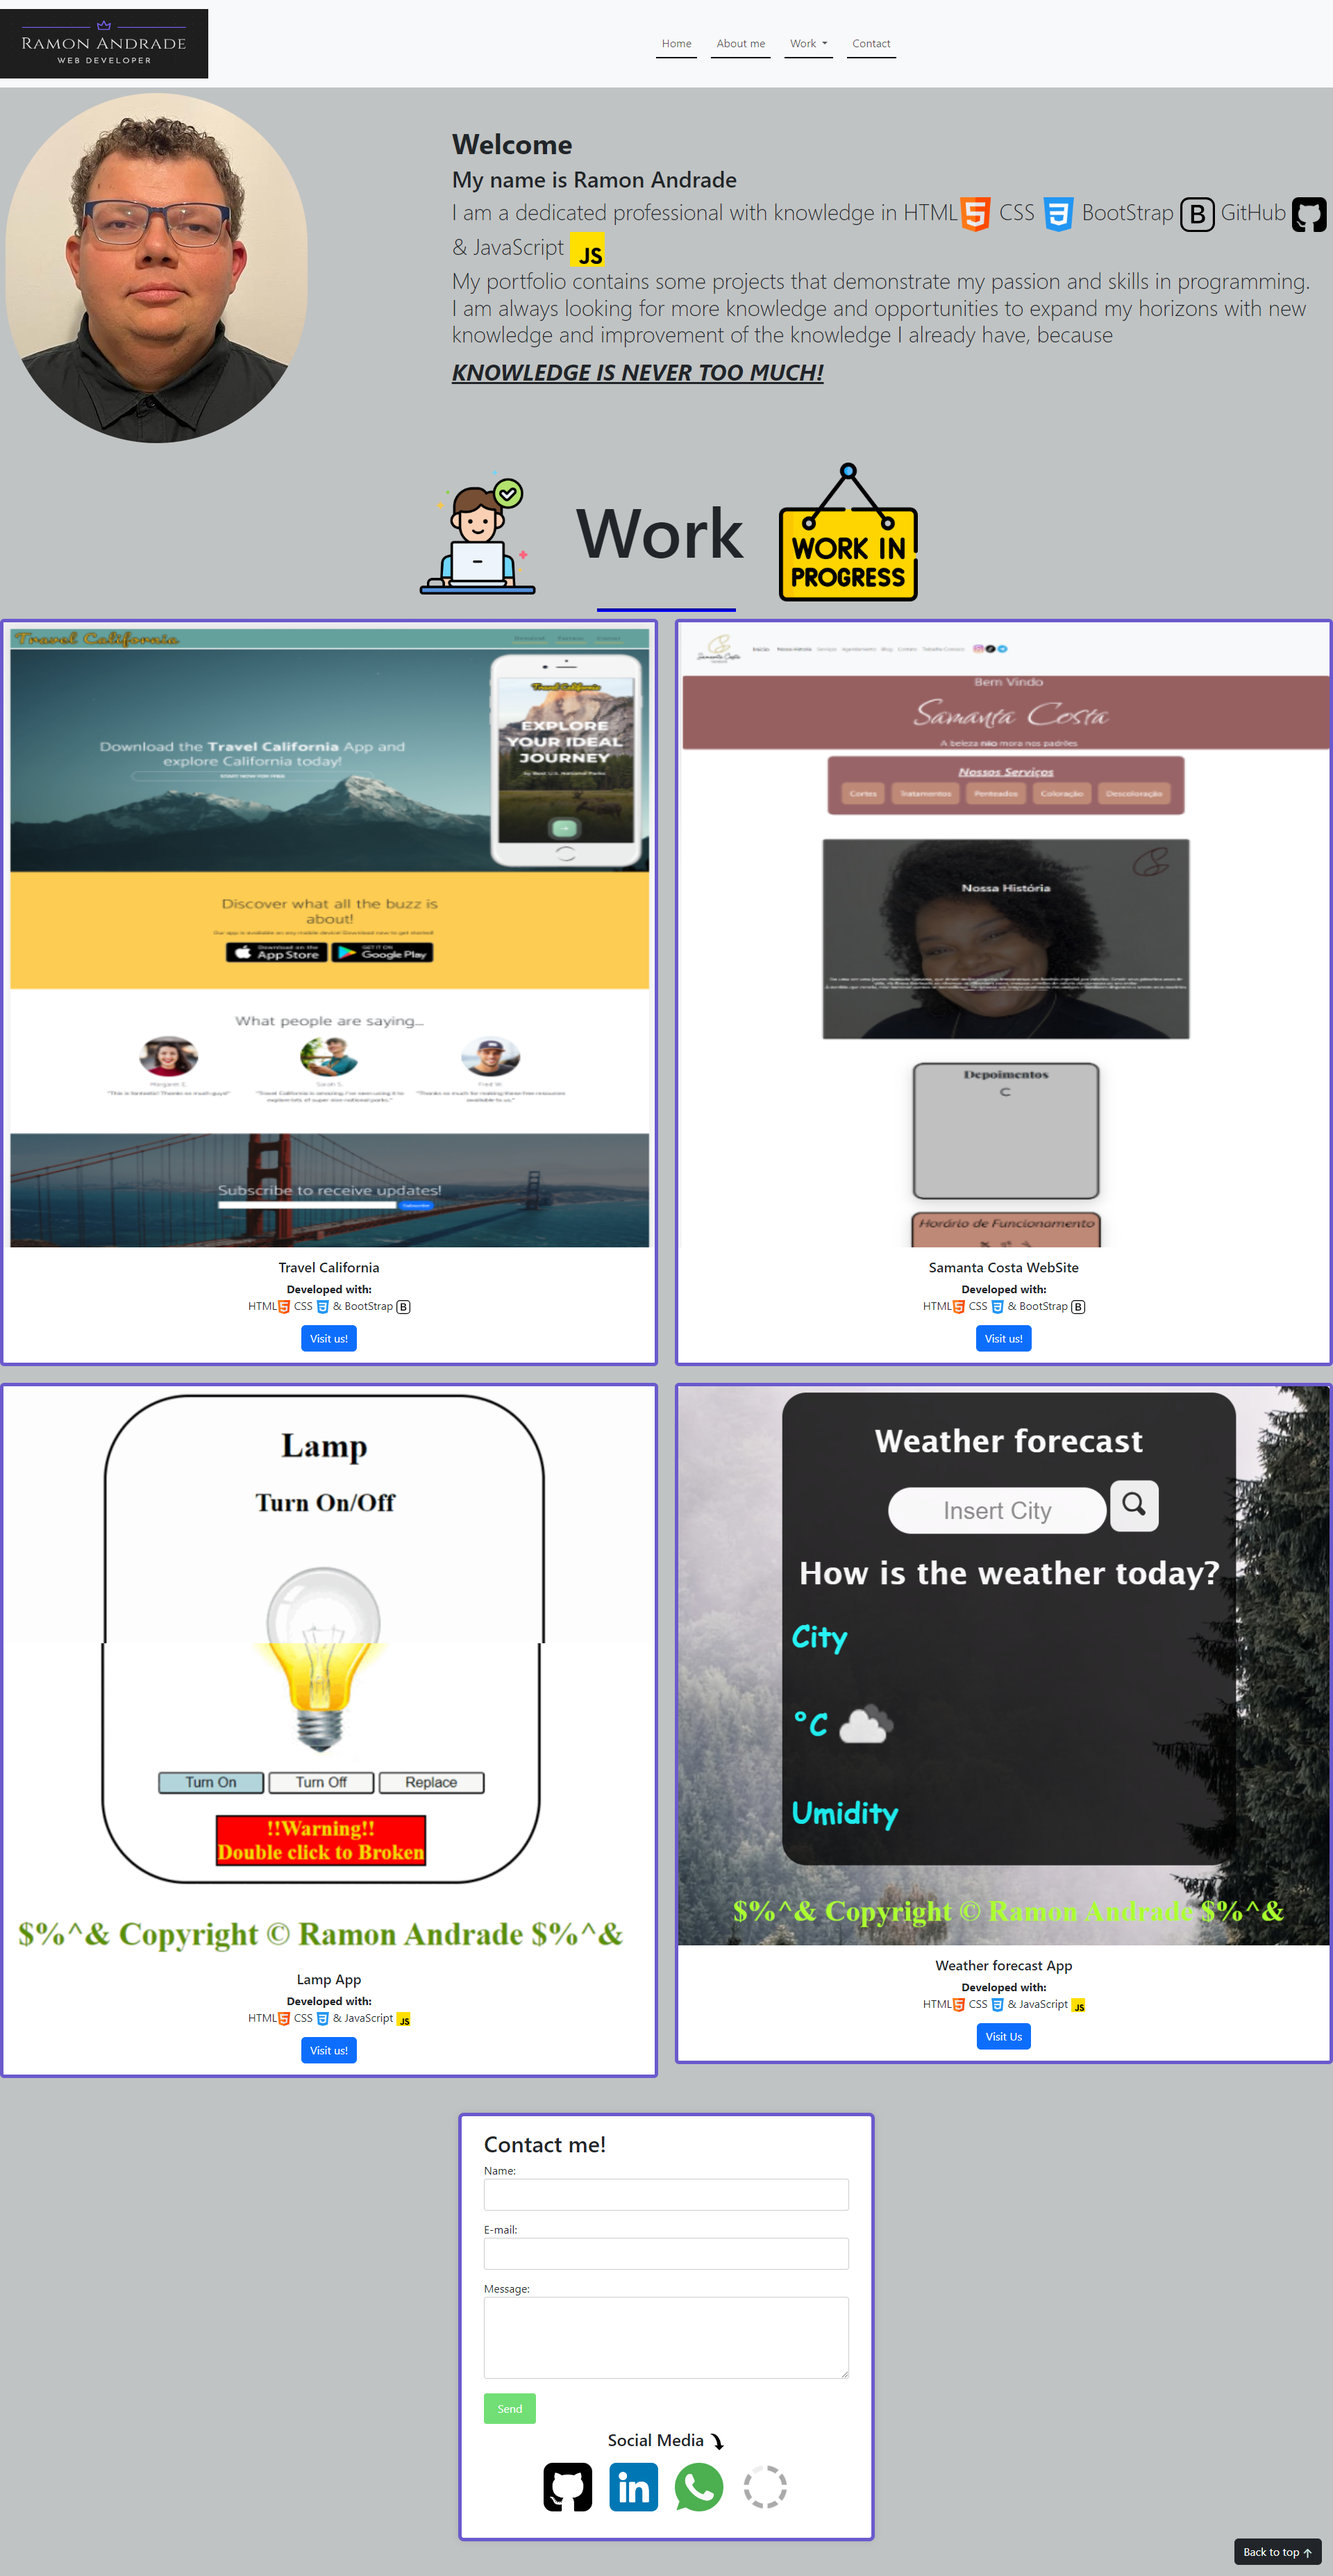
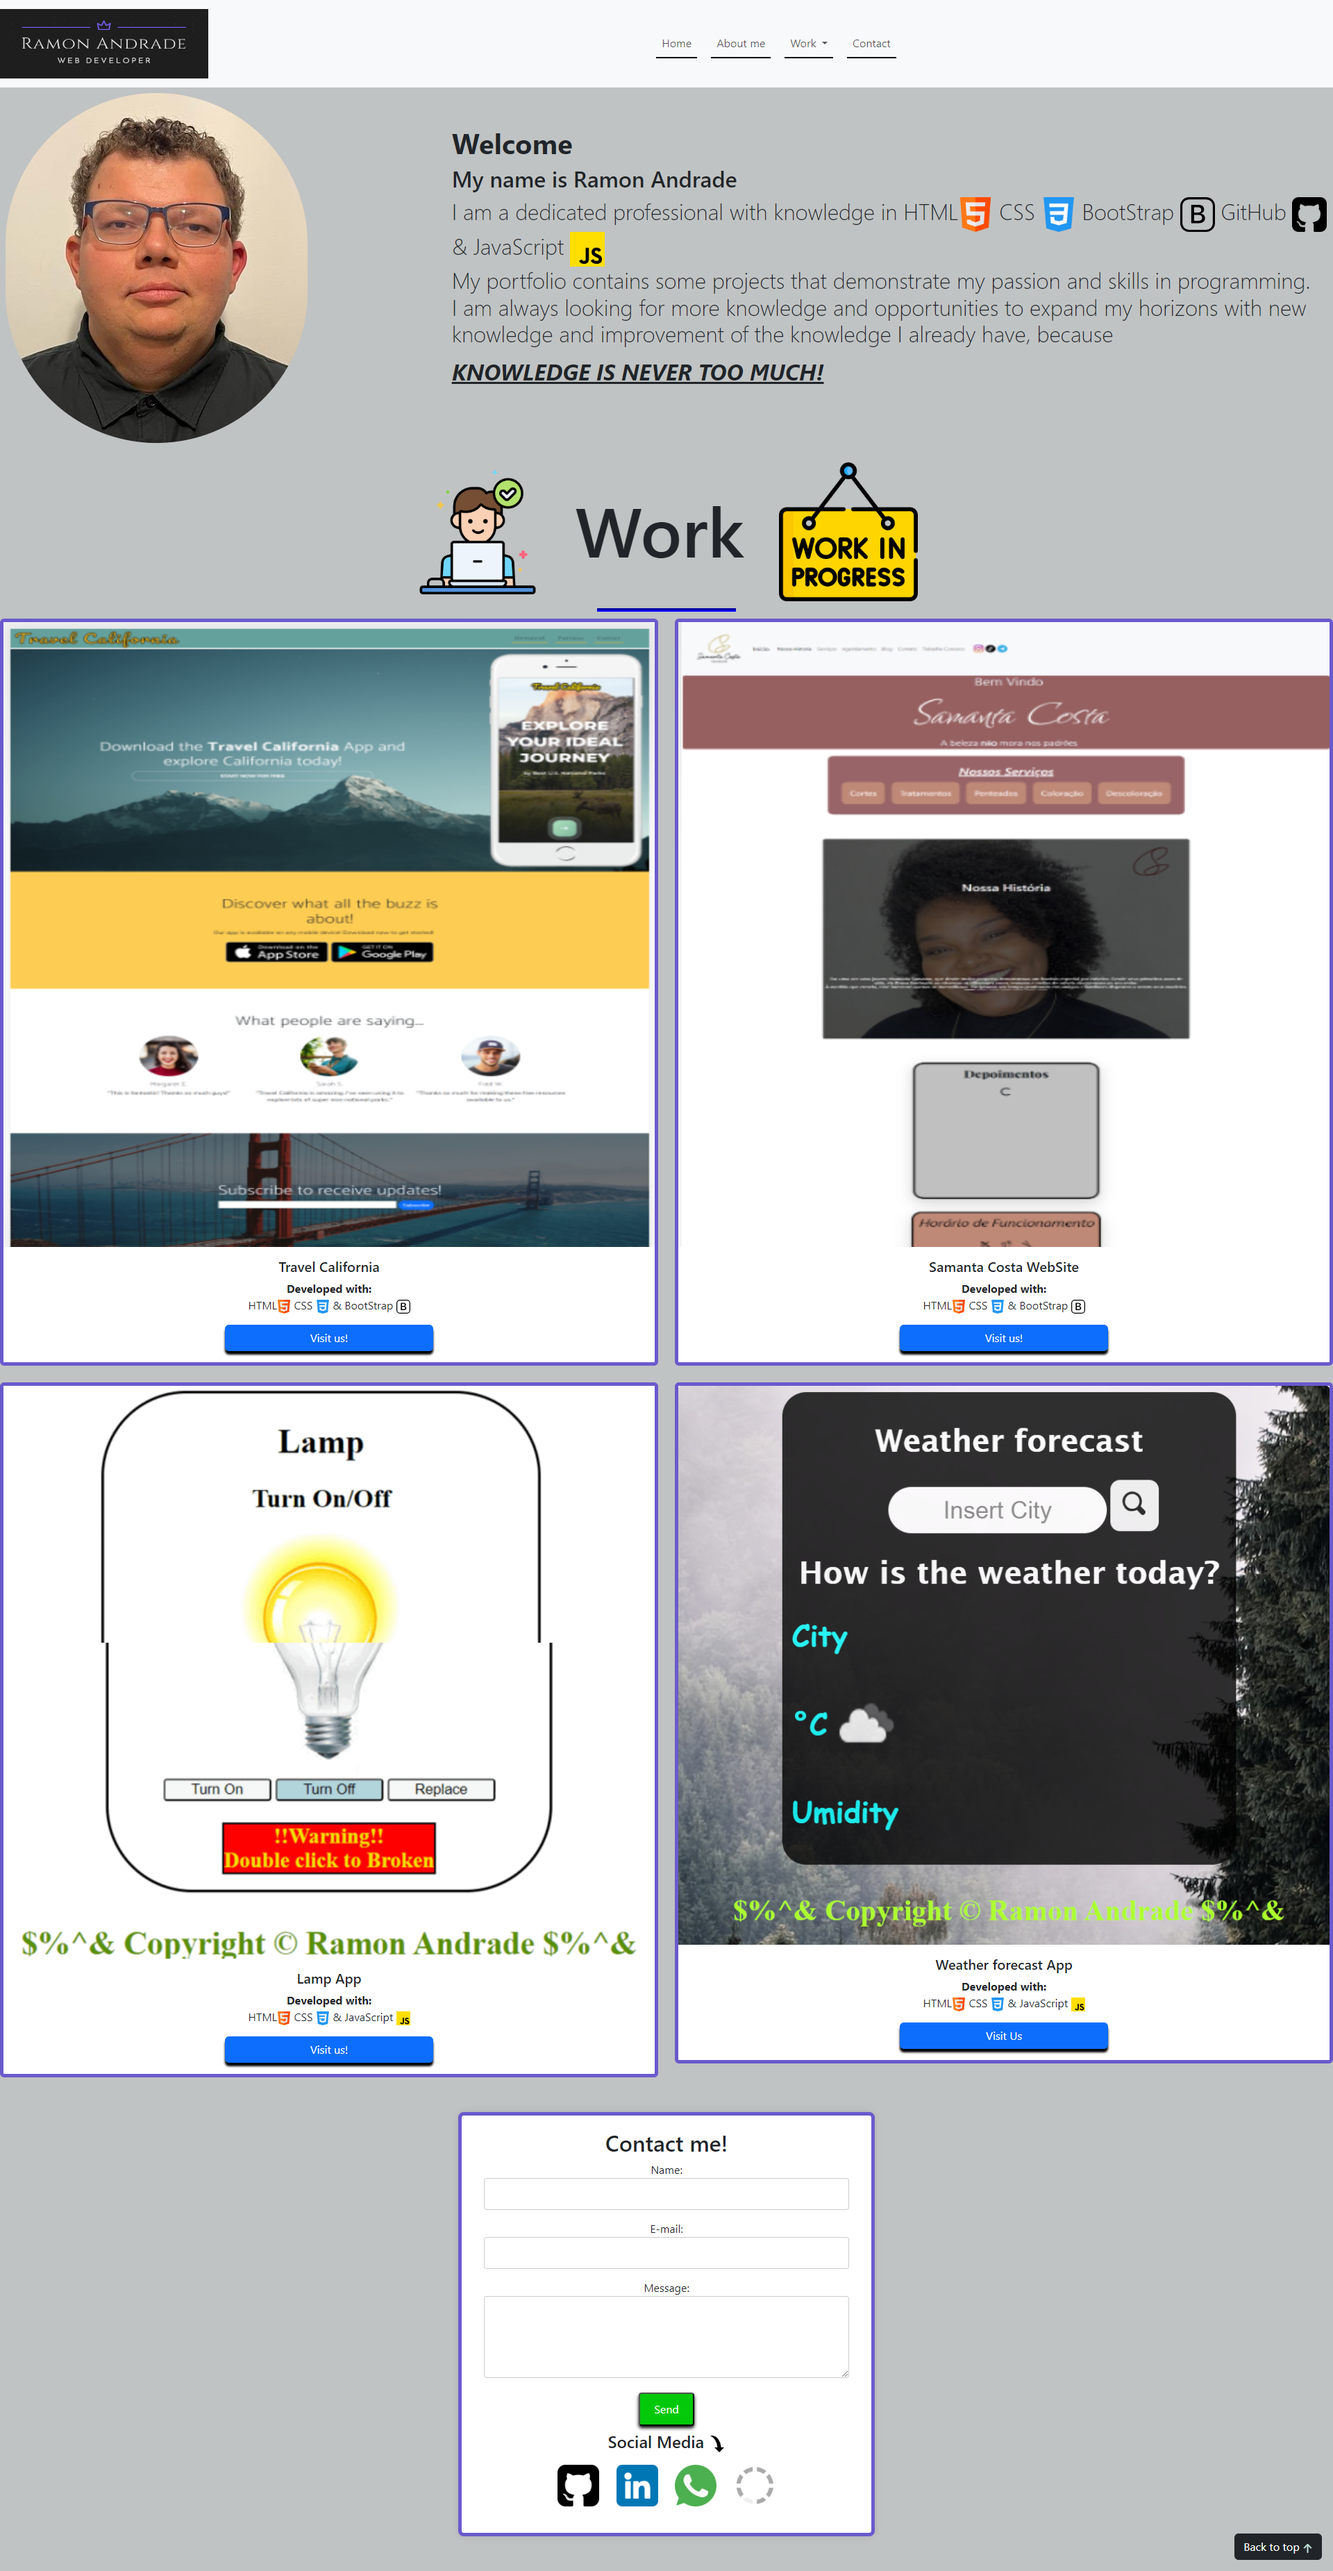
adjusted box Shadows + replace images again

diff --git a/index.html b/index.html
@@ -94,8 +94,8 @@
 
   <!-- work-Images -->
 
-  <div class="row row-cols-1 row-cols-md-2 g-4" id="card1">
-    <div class="col">
+  <div class="row row-cols-1 row-cols-md-2 g-4">
+    <div class="col" id="card1">
       <div class="card">
         <img src="./assets/img/travel-california.png" class="card-img-top" alt="...">
         <div class="card-body text-center">
@@ -150,7 +150,7 @@
       </div>
     </div>
     <!-- ////////////// contact ////////////////// -->
-    <div class="container-fluid contact-container">
+    <div class="container-fluid contact-container text-center">
       <div class="container-fluid">
         <h2>Contact me!</h2>
         <form class="contact-form">
@@ -163,7 +163,7 @@
           <label for="message">Message:</label>
           <textarea id="message" name="message" rows="4"></textarea>
 
-          <button type="submit">Send</button>
+          <button type="submit" class="btn-submit">Send</button>
         </form>
       </div>
 

diff --git a/assets/CSS/style.css b/assets/CSS/style.css
@@ -44,6 +44,15 @@ nav li:hover{
 .card img{
   max-height: 900px; 
 }
+
+.card a{
+  width: 300px;
+  box-shadow: 0 5px 3px black;
+}
+
+.card a:hover{
+  transform: scale(1.1)
+}
 /* ///////Contact /////////// */
 
 .contact-container {
@@ -67,21 +76,26 @@ nav li:hover{
 }
 
 .contact-form button {
-  background-color: #71df75;
+  background-color: #04c90a;
   color: #fff;
   padding: 10px 20px;
-  border: none;
   border-radius: 4px;
   cursor: pointer;
+  box-shadow:0px 3px 5px #000000;
 }
 
 .contact-form button:hover {
   background-color: #0ea413;
+  transform: scale(1.1, 1.2)
 }
 
 .contact-main a img{
-  width: 70px;
+  width: 60px;
   margin: 10px;
+}
+
+.contact-main a img:hover{
+  transform: scale(1.1, 1.2)
 }
 
 
